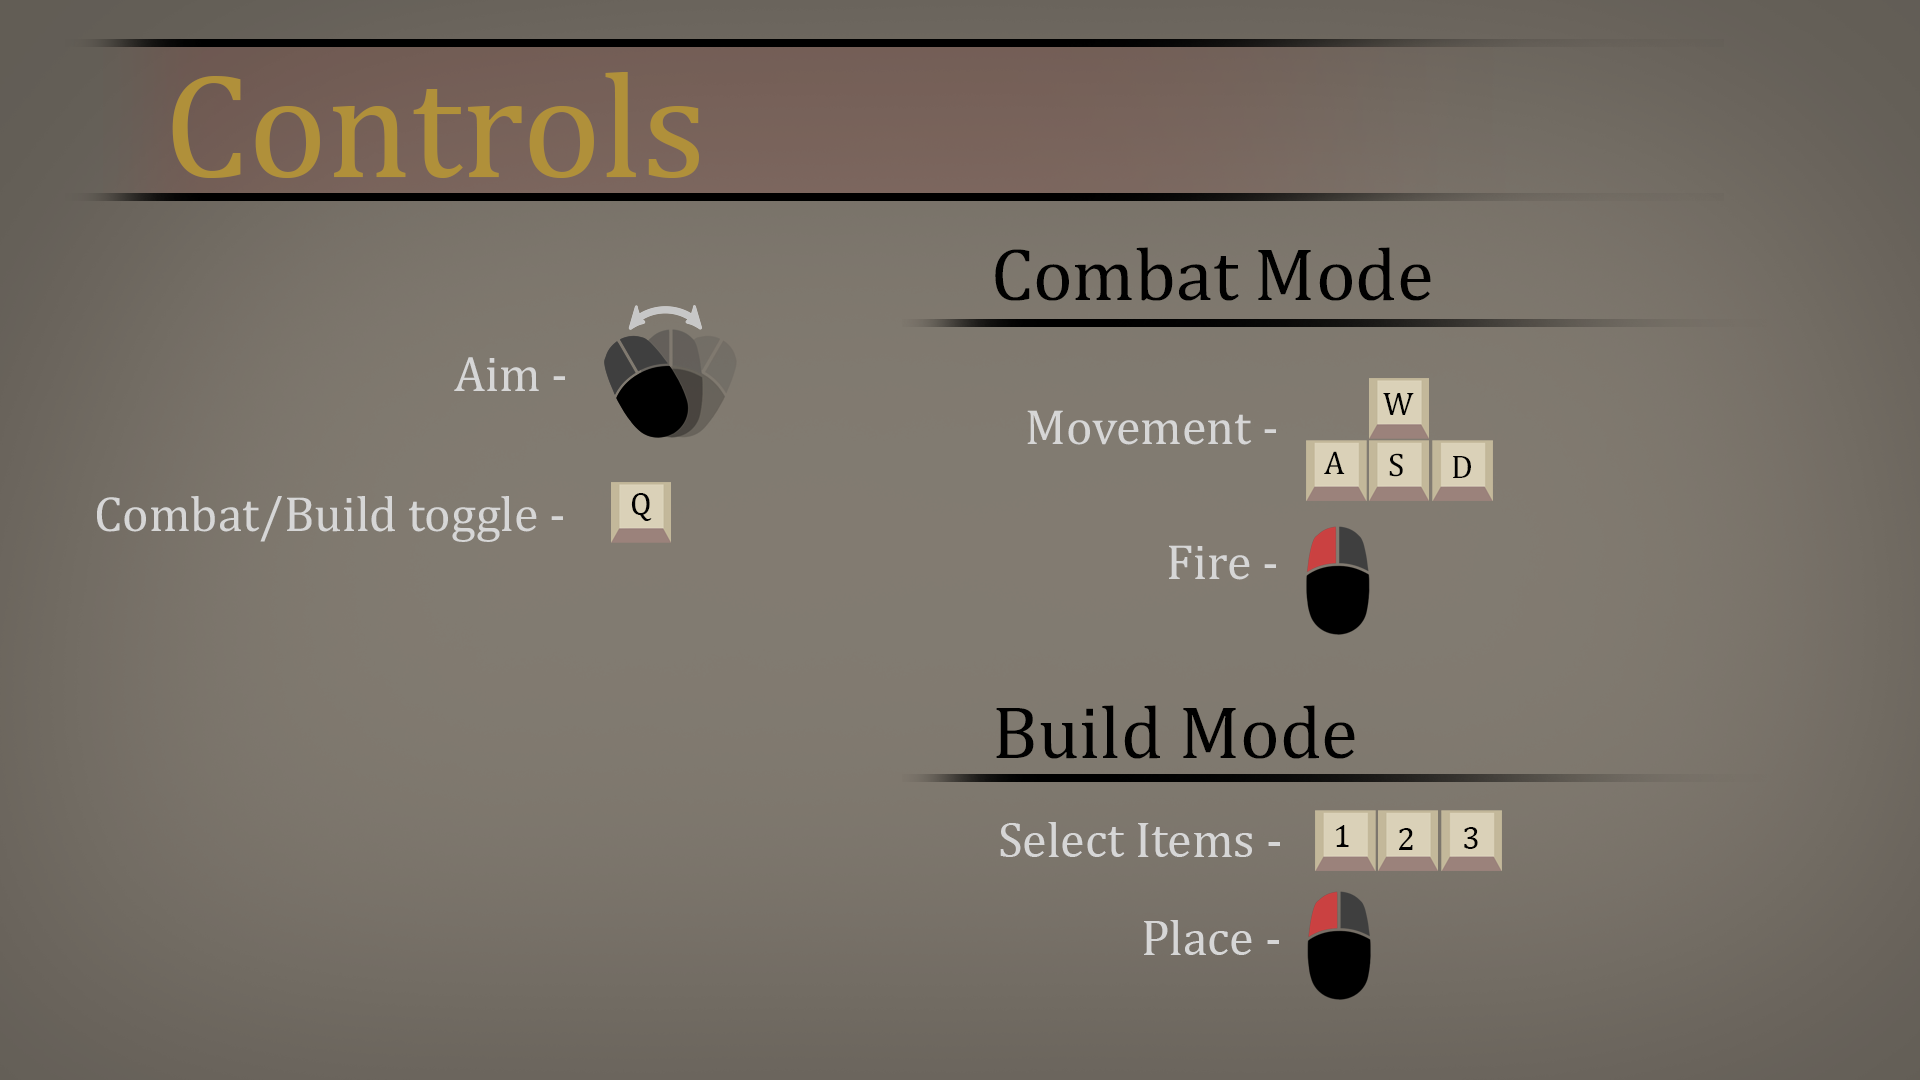
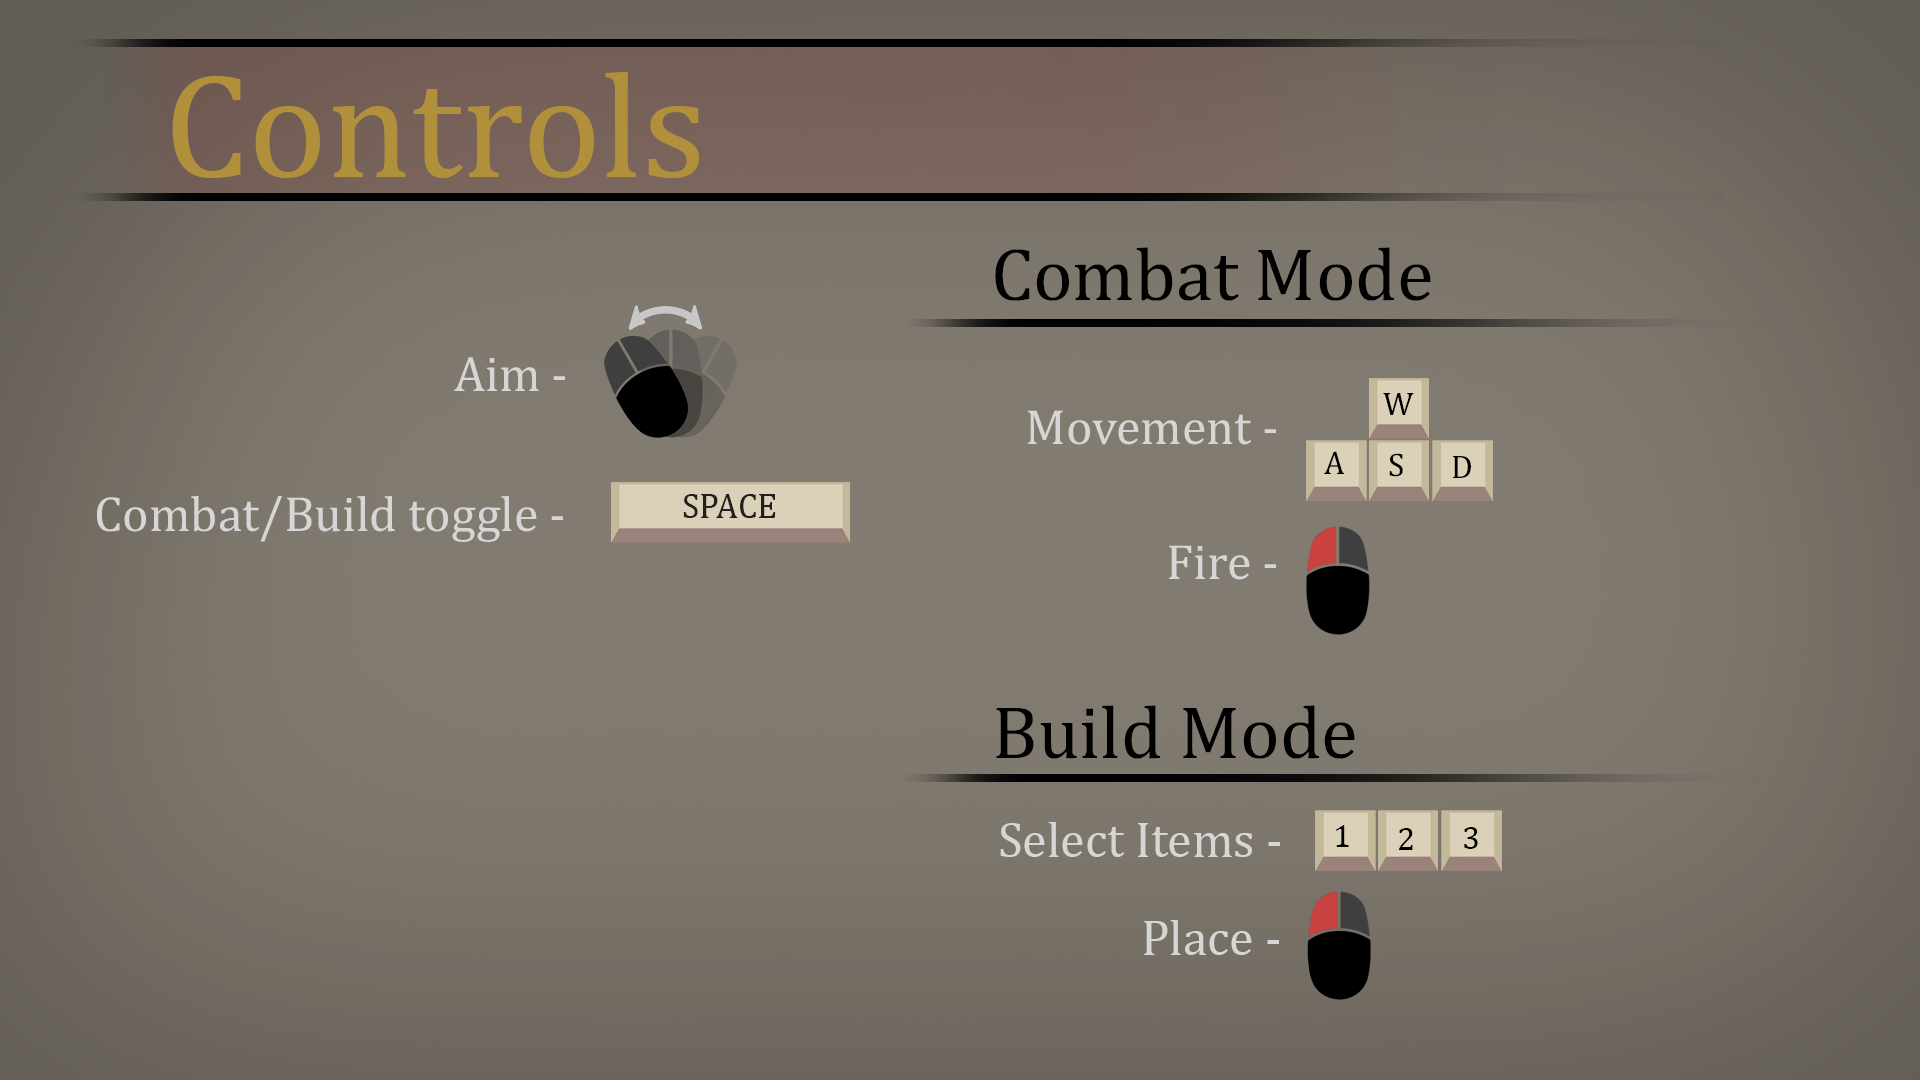
it works

Changed region(s): [[0.3125, 0.4278, 0.4688, 0.5194]]

diff --git a/GameJamUnity/Assets/Src/Game/States/GameplayState.cs b/GameJamUnity/Assets/Src/Game/States/GameplayState.cs
@@ -69,17 +69,21 @@ public class GameplayState : IGameState
         _particleGod.InitParticlePool();
 
         //HUD
-        _hudController = new HUDController((() =>
+        _hudController = new HUDController(_gameConfig.playerConfig);
+        _hudController.Start(() =>
         {
             _monsterGenerator.Init(_hudController, _playerCombatSystem);
-            _playerCombatSystem.Init(_hudController);
-        }));
+        });
 
+        _playerCombatSystem.Init(_hudController);
+        _buildSystem.Init();
+        _enemySystem.Init();
 
         // Get CombatPlayerView
         //_playerCombatSystem.isEnabled = true;
         _dispatcher.AddListener(GameplayEventType.DAMAGE_TAKEN, onDamageTaken);
         _dispatcher.AddListener(GameplayEventType.GAME_COMPLETE, onGameComplete);
+        _dispatcher.AddListener(GameplayEventType.GAME_RETRY, onGameRetry);
     }
 
     public void Step(float p_deltaTime)
@@ -101,7 +105,7 @@ public class GameplayState : IGameState
             _monsterGenerator.OnUpdate(p_deltaTime);
         }
 
-        if (Input.GetKeyDown(KeyCode.Q))
+        if (Input.GetKeyDown(KeyCode.Space))
         {
             _gameMode = _gameMode == GameMode.COMBAT ? GameMode.BUILD : GameMode.COMBAT;
         }
@@ -138,6 +142,11 @@ public class GameplayState : IGameState
     public void Exit()
     {
         _dispatcher.RemoveListener(GameplayEventType.DAMAGE_TAKEN, onDamageTaken);
+        _dispatcher.RemoveListener(GameplayEventType.GAME_COMPLETE, onGameComplete);
+        _dispatcher.RemoveListener(GameplayEventType.GAME_RETRY, onGameRetry);
+
+        _hudController.RemoveView();
+        _buildSystem.CleanUp();
 
     }
 
@@ -155,5 +164,9 @@ public class GameplayState : IGameState
         _gameMode = GameMode.NONE;
     }
 
+    private void onGameRetry(GeneralEvent e)
+    {
+        _gameStateMachine.ChangeState(JamStateType.MAIN_MENU);
+    }
 
 }

diff --git a/GameJamUnity/Assets/Src/Game/Gameplay/Combat/Enemies/EnemySystem.cs b/GameJamUnity/Assets/Src/Game/Gameplay/Combat/Enemies/EnemySystem.cs
@@ -7,7 +7,6 @@ public class EnemySystem : GhostGen.EventDispatcher
 {
     private GameplayResources _gameplayResources;
     private GameConfig _gameConfig;
-    private PlayerCombatController _playerController;
 
 
     private GenericPooler _enemyPool;
@@ -26,24 +25,20 @@ public class EnemySystem : GhostGen.EventDispatcher
 
         _gameplayResources = gameplayResources;
         _gameConfig = gameConfig;
-        _playerController = playerCombatSystem.playerController;
 
         _enemyDef = _gameConfig.enemyConfig.basicEnemy;
+        
+    }
 
+    public void Init()
+    {
         GameObject pool = GameObject.FindGameObjectWithTag("ScenePool");
-        if (!pool)
+        if(!pool)
         {
             Debug.LogError("NO SCENE POOL TRANSFORM FOUND IN SCENE");
         }
         _enemyPool = new GenericPooler(pool.transform);
         _enemyPool.InitPool(ENEMY, 0, _gameplayResources.basicEnemyView);
-
-        /*
-        for(int i = 0; i < 6; ++i)
-        {
-            AddEnemy(_playerController.transform, Vector3.zero);
-        }
-        */
     }
 
     public void AddEnemy(Transform target, Vector3 position)
@@ -64,18 +59,16 @@ public class EnemySystem : GhostGen.EventDispatcher
         }
 
         enemy.Init();
-        enemyView.transform.position = position;
+        enemy.position = position;
     }
 
     public void Tick(float deltaTime)
     {
-        if(_playerController != null)
+        for(int i = 0; i < _enemyList.Count; ++i)
         {
-            for(int i = 0; i < _enemyList.Count; ++i)
-            {
-                _enemyList[i].RefreshTarget(); 
-                _enemyList[i].Tick(deltaTime);
-            }
+            _enemyList[i].RefreshTarget(); 
+            _enemyList[i].Tick(deltaTime);
         }
+        
     }
 }

diff --git a/GameJamUnity/Assets/Src/Game/Gameplay/Builder/BuildingSystem.cs b/GameJamUnity/Assets/Src/Game/Gameplay/Builder/BuildingSystem.cs
@@ -52,23 +52,21 @@ namespace Gameplay.Building
         public BuildingSystem(GameConfig gameConfig, InventorySystem inventorySystem)
         {
             _inventorySystem = inventorySystem;
-            _gameplayCam = UnityEngine.Object.FindObjectOfType<GameplayCamera>();
             _buildConfig = gameConfig.bulidConfig;
             _buildables = _buildConfig.buildables;
-            _gameBoard = GameObject.FindObjectOfType<GameBoard>();
-            _buildHologram = GameObject.Instantiate<BuildHologram>(_buildConfig.buildHologram);
-
-            //init builder
-            InitBuilder();
-
+            
             // TODO: Klean it up!
             _dispatcher = Singleton.instance.notificationDispatcher;
             _dispatcher.AddListener(GameplayEventType.ENEMY_KILLED, onItemPickedUp);
         }
 
-        private void InitBuilder()
+        public void Init()
         {
             //init building pool
+            _gameplayCam = GameObject.FindObjectOfType<GameplayCamera>();
+            _gameBoard = GameObject.FindObjectOfType<GameBoard>();
+            _buildHologram = GameObject.Instantiate<BuildHologram>(_buildConfig.buildHologram);
+
             GameObject pool = GameObject.FindGameObjectWithTag("ScenePool");
             if (!pool)
             {
@@ -93,6 +91,11 @@ namespace Gameplay.Building
 
         }
         #endregion
+
+        public void CleanUp()
+        {
+            _buildViewController.RemoveView();
+        }
 
         public void EnableSystem(bool on)
         {

diff --git a/GameJamUnity/Assets/Src/Game/Gameplay/Combat/Player/PlayerCombatSystem.cs b/GameJamUnity/Assets/Src/Game/Gameplay/Combat/Player/PlayerCombatSystem.cs
@@ -31,6 +31,15 @@ public class PlayerCombatSystem : GhostGen.EventDispatcher
         string[] list = { "BoardLayer" };
         _boardLayer = LayerMask.GetMask(list);
 
+        
+        isEnabled = false;
+        _dispatcher = Singleton.instance.notificationDispatcher;
+    }
+
+    public void Init(HUDController hudController)
+    {
+        _hudController = hudController;
+
         PlayerCombatView view = GameObject.Instantiate<PlayerCombatView>(_gameplayResources.playerCombatView);
         _playerCombatController = new PlayerCombatController(view, _gameConfig.playerConfig);
         _playerCombatController.AddListener(GameplayEventType.DAMAGE_TAKEN, OnPlayeDamageTake);
@@ -40,15 +49,6 @@ public class PlayerCombatSystem : GhostGen.EventDispatcher
         _parentController = GameObject.Instantiate<ParentController>(_gameplayResources.parentController);
         _parentController.Init(_gameConfig.playerConfig);
         _parentController.AddListener(GameplayEventType.DAMAGE_TAKEN, OnParentDamageTaken);
-        isEnabled = false;
-        _dispatcher = Singleton.instance.notificationDispatcher;
-    }
-
-    public void Init(HUDController hudController)
-    {
-        _hudController = hudController;
-        _hudController.SetPlayeMaxHealth(_gameConfig.playerConfig.startHealth);
-        _hudController.SetParenMaxHealth(_gameConfig.playerConfig.parentStartHealth);
     }
 
     public bool isEnabled

diff --git a/GameJamUnity/Assets/Src/Game/UI/GameComplete/GameCompleteController.cs b/GameJamUnity/Assets/Src/Game/UI/GameComplete/GameCompleteController.cs
@@ -4,16 +4,23 @@ using System;
 
 public class GameCompleteController : BaseController
 {
-    public GameCompleteController(bool win,Action onComplete)
+    private bool didWin;
+    private Action onRetry;
+
+    public GameCompleteController(bool win)
     {
+        didWin = win;
+    }
+
+    public void Start(Action onComplete)
+    {
+        onRetry = onComplete;
+
         viewFactory.CreateAsync<GameCompleteView>("GUI/EndGameView", (v) =>
         {
             view = v;
-            OnCreationComplete(win);
-            if (onComplete != null)
-            {
-                onComplete();
-            }
+            view.AddListener("on_retry", onRetryGame);
+            OnCreationComplete(didWin);
         });
     }
 
@@ -22,6 +29,14 @@ public class GameCompleteController : BaseController
     private void OnCreationComplete(bool win)
     {
         _gameCompleteView.OnCreationComplete(win);
+    }
+
+    private void onRetryGame(GhostGen.GeneralEvent e)
+    {
+        view.RemoveListener("on_retry", onRetryGame);
+        RemoveView();
+
+        Singleton.instance.notificationDispatcher.DispatchEvent(GameplayEventType.GAME_RETRY);
     }
 
 }

diff --git a/GameJamUnity/Assets/Src/Game/UI/HUD/HUDController.cs b/GameJamUnity/Assets/Src/Game/UI/HUD/HUDController.cs
@@ -6,7 +6,16 @@ namespace UI.HUD
 {
     public class HUDController : BaseController
     {
-        public HUDController(Action onComplete)
+        private PlayerConfig _playerConfig;
+
+        public HUDController(PlayerConfig config)
+        {
+            _playerConfig = config;
+        }
+
+        private HUDView _hudView { get { return view as HUDView; } }
+
+        public void Start(Action onComplete)
         {
             viewFactory.CreateAsync<HUDView>("GUI/PlayerHUD", (v) =>
             {
@@ -18,8 +27,6 @@ namespace UI.HUD
                 }
             });
         }
-
-        private HUDView _hudView { get { return view as HUDView; } }
 
         public void SetPlayeMaxHealth(float max)
         {
@@ -33,6 +40,9 @@ namespace UI.HUD
 
         private void OnCreationComplete()
         {
+
+            SetPlayeMaxHealth(_playerConfig.startHealth);
+            SetParenMaxHealth(_playerConfig.parentStartHealth);
             _hudView.OnCreationComplete();
         }
 

diff --git a/GameJamUnity/Assets/Src/Game/Gameplay/Flow/MonsterGenerator.cs b/GameJamUnity/Assets/Src/Game/Gameplay/Flow/MonsterGenerator.cs
@@ -41,7 +41,6 @@ public class MonsterGenerator : EventDispatcher
         }else
         {
             _levelDef = _levelConfig.levels[0];
-            InitMonsterStateMachine();
         }
     }
 
@@ -49,6 +48,8 @@ public class MonsterGenerator : EventDispatcher
     {
         _hudController = hudController;
         _playerSystem = playerSystem;
+
+        InitMonsterStateMachine();
     }
 
     #region State Machine
@@ -97,7 +98,10 @@ public class MonsterGenerator : EventDispatcher
 
     public void OnUpdate(float deltaTime)
     {
-        _currentFlowState.OnUpdate();
+        if(_currentFlowState != null)
+        {
+            _currentFlowState.OnUpdate();
+        }
     }
 
     private void onEnemyKilled(GhostGen.GeneralEvent e)

diff --git a/GameJamUnity/Assets/Src/Game/UI/GameComplete/GameCompleteView.cs b/GameJamUnity/Assets/Src/Game/UI/GameComplete/GameCompleteView.cs
@@ -12,8 +12,6 @@ public class GameCompleteView : UIView
     public TextMeshProUGUI endBanner;
     public CanvasGroup grid;
 
-    private IEventDispatcher _dispatcher;
-
     public void OnCreationComplete(bool win)
     {
 
@@ -21,13 +19,11 @@ public class GameCompleteView : UIView
         grid.DOFade(1, 1);
         endBanner.color = win ? Color.green : Color.red;
         endBanner.text = win ? "WIN!" : "DEFEAT";
-        retry.onClick.AddListener(() => RETRY());
-
-        _dispatcher = Singleton.instance.notificationDispatcher;
+        retry.onClick.AddListener(RETRY);
     }
 
     private void RETRY()
     {
-        _dispatcher.DispatchEvent(GameplayEventType.GAME_RETRY);
+        DispatchEvent("on_retry"); ;
     }
 }

diff --git a/GameJamUnity/Assets/Src/Game/Gameplay/Flow/EndState.cs b/GameJamUnity/Assets/Src/Game/Gameplay/Flow/EndState.cs
@@ -27,6 +27,10 @@ public class EndState : FlowState
     private void HandleGameOver()
     {
         Singleton.instance.audioSystem.PlaySound(SoundBank.Type.Lose);
-        _gameCompleteController = new GameCompleteController(_generator.gameWon, null);
+        _gameCompleteController = new GameCompleteController(_generator.gameWon);
+        _gameCompleteController.Start(() =>
+        {
+            _gameCompleteController.RemoveView();
+        });
     }
 }

diff --git a/GameJamUnity/Assets/Src/Game/Gameplay/Combat/Enemies/EnemyController.cs b/GameJamUnity/Assets/Src/Game/Gameplay/Combat/Enemies/EnemyController.cs
@@ -18,6 +18,7 @@ public class EnemyController
 
     public EnemyController(EnemyDef def, EnemyView view, Transform target)
     {
+        Debug.Log("INITTED");
         _def = def;
         _view = view;
         _view.controller = this;
